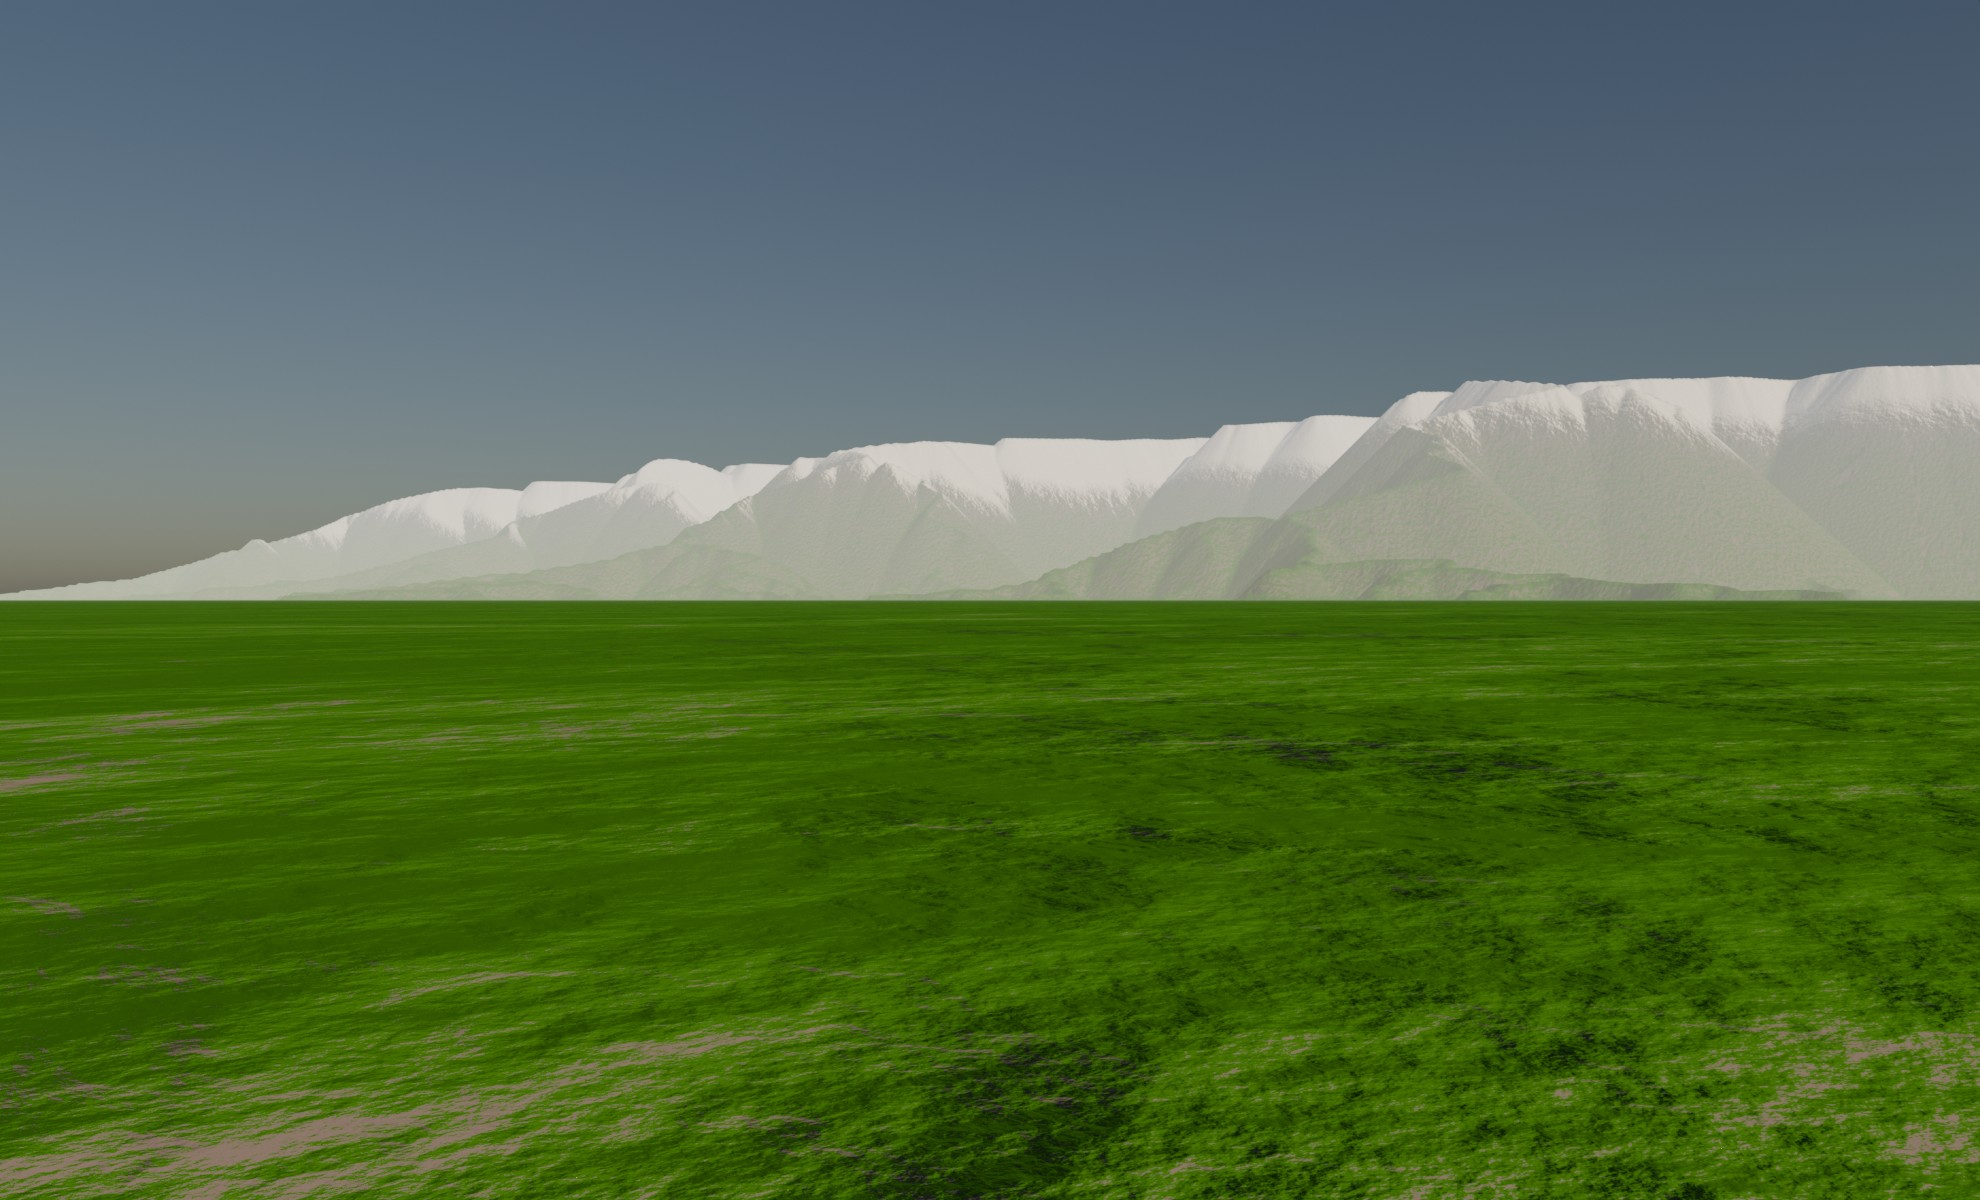
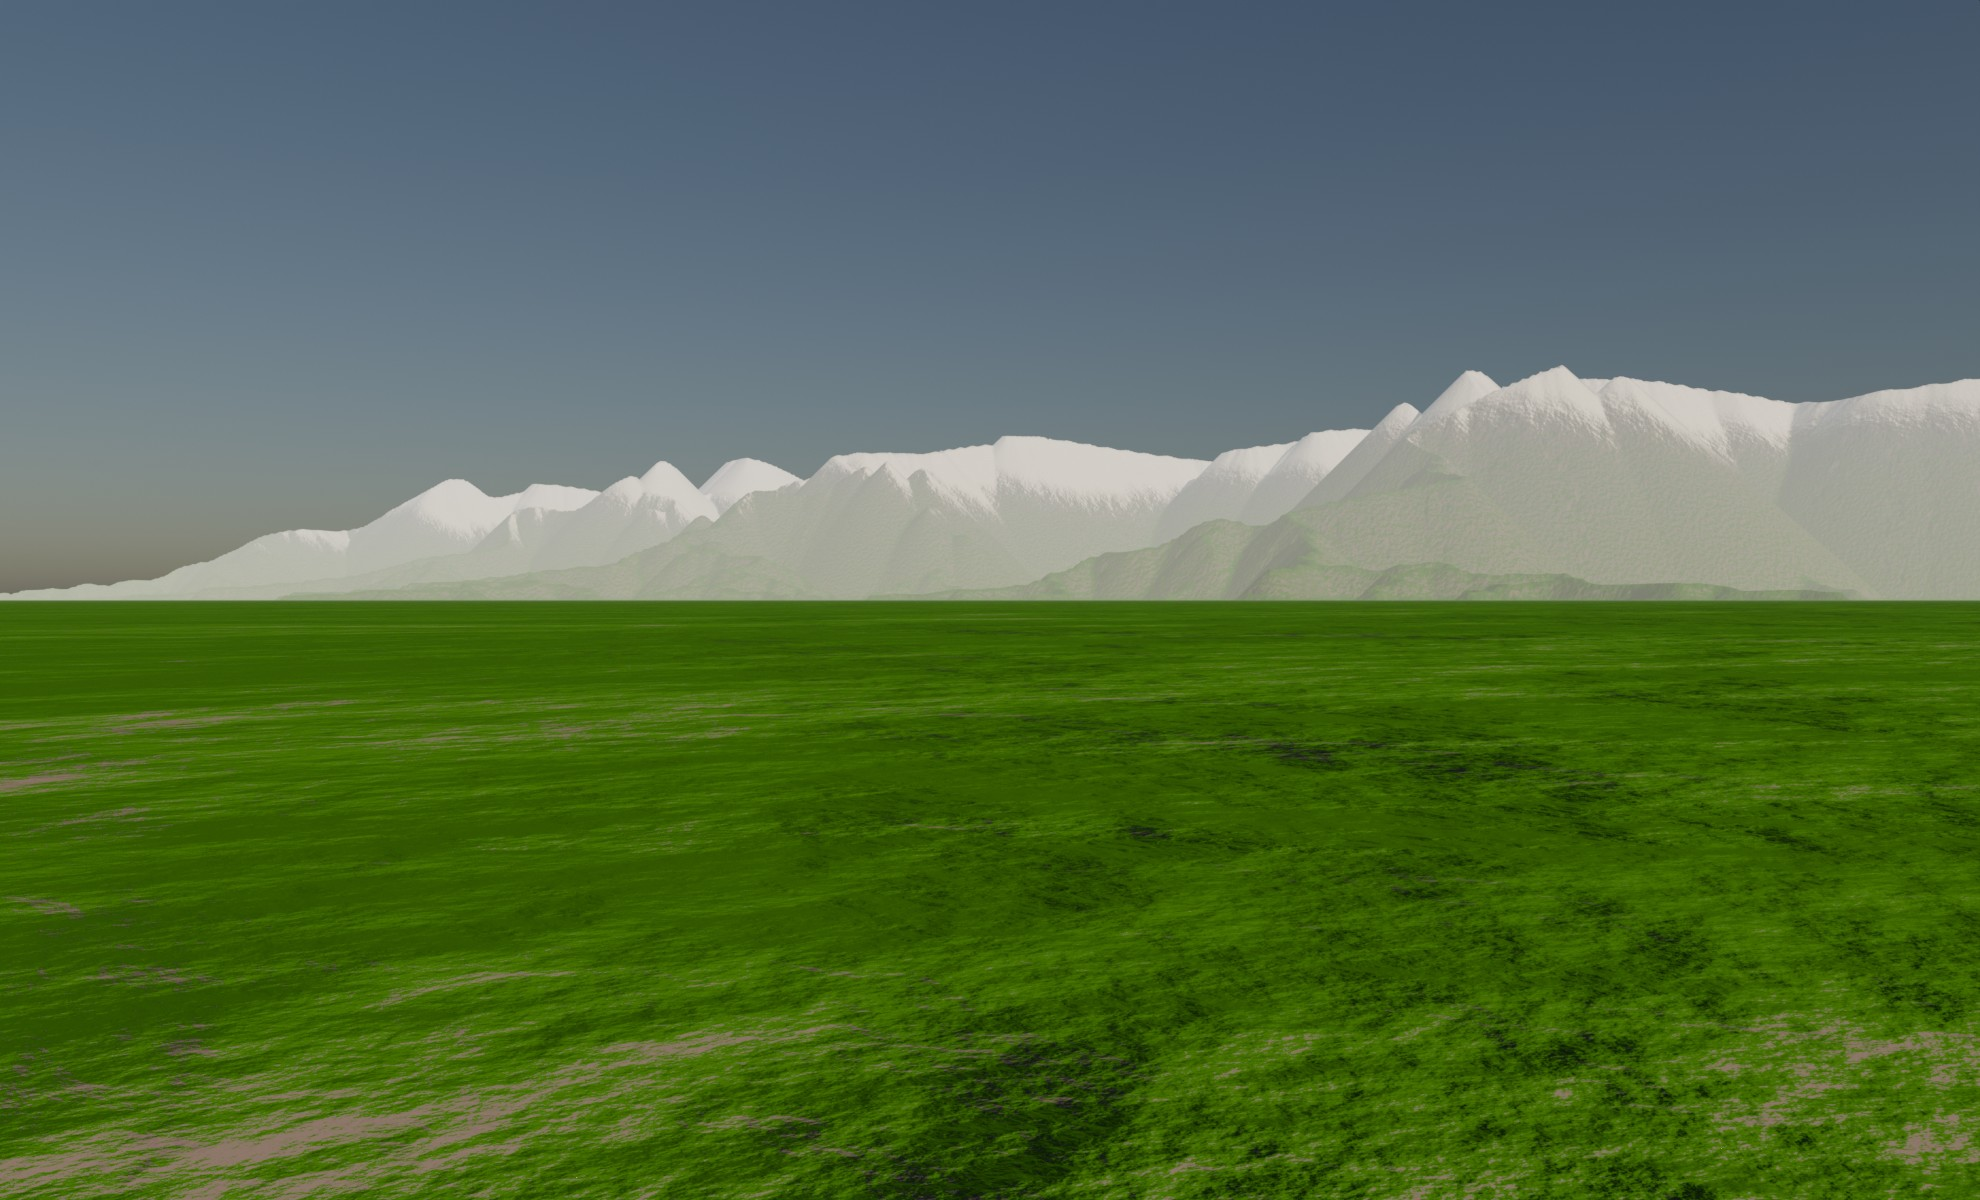
Rower ridges to create cols

diff --git a/lib/generators/ridge_tree_generator/ridge_tree_branch.cpp b/lib/generators/ridge_tree_generator/ridge_tree_branch.cpp
@@ -68,23 +68,39 @@ terraformer::single_array<float> terraformer::generate_elevation_profile(
 		array_index<float> const end_index{branch_points[k].get()};
 		auto const dl = integrated_curve_length[end_index] - integrated_curve_length[begin_index];
 		auto const end_elevation = peak_elevation_distribution(rng);
-		auto const p_peak = make_polynomial(
+		auto const col_elvation = -peak_elevation_distribution(rng);
+		auto const p_peak_begin = make_polynomial(
 			cubic_spline_control_point{
 				.y = begin_elevation,
 				.ddx = 0.0  // TODO
 			},
 			cubic_spline_control_point{
-				.y = end_elevation,
-				.ddx = 0.0f  // TODO
+				.y = col_elvation,
+				.ddx = 0.0f
 			}
 		);
+
+		auto const p_peak_end = make_polynomial(
+			cubic_spline_control_point{
+				.y = col_elvation,
+				.ddx = 0.0f
+			},
+			cubic_spline_control_point{
+				.y = end_elevation,
+				.ddx = 0.0f // TODO
+			}
+		);
+
+		auto const mod_func = [p_peak_begin, p_peak_end](auto x) {
+			return x < 0.5f? p_peak_begin(2.0f*x) : p_peak_end(2.0f*(x - 0.5f));
+		};
 
 		auto const mod_depth = elevation_profile.mod_depth;
 		for(auto l = begin_index; l != end_index; ++l)
 		{
 			auto const t = integrated_curve_length[l];
 			auto const x = t - integrated_curve_length[begin_index];
-			ret[l] = initial_curve(t/L)*(1.0f + mod_depth*p_peak(x/dl));
+			ret[l] = initial_curve(t/L)*(1.0f + mod_depth*mod_func(x/dl));
 		}
 
 		begin_elevation = end_elevation;
